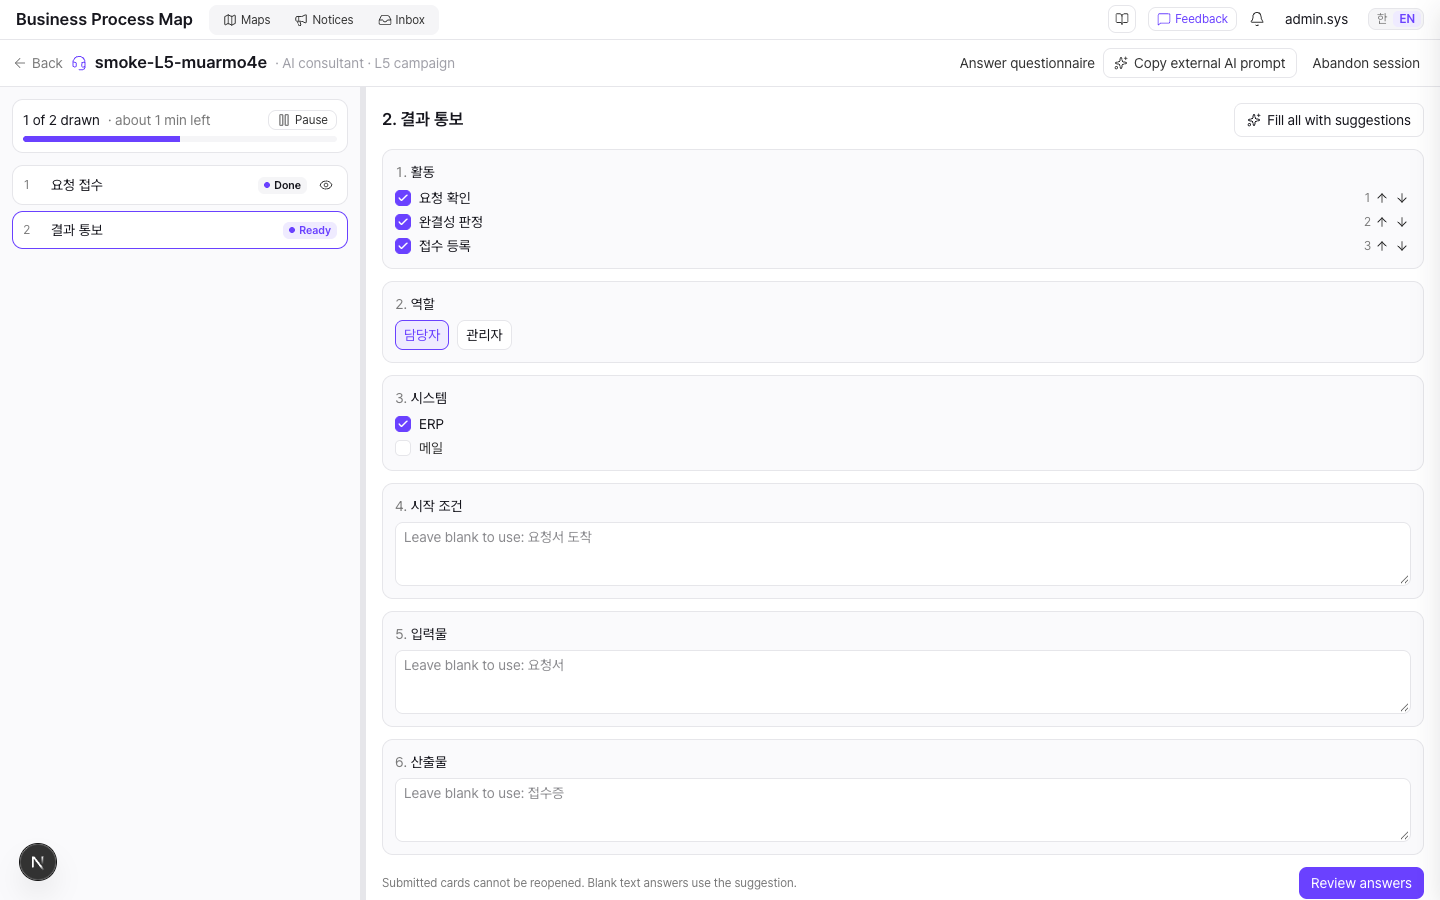
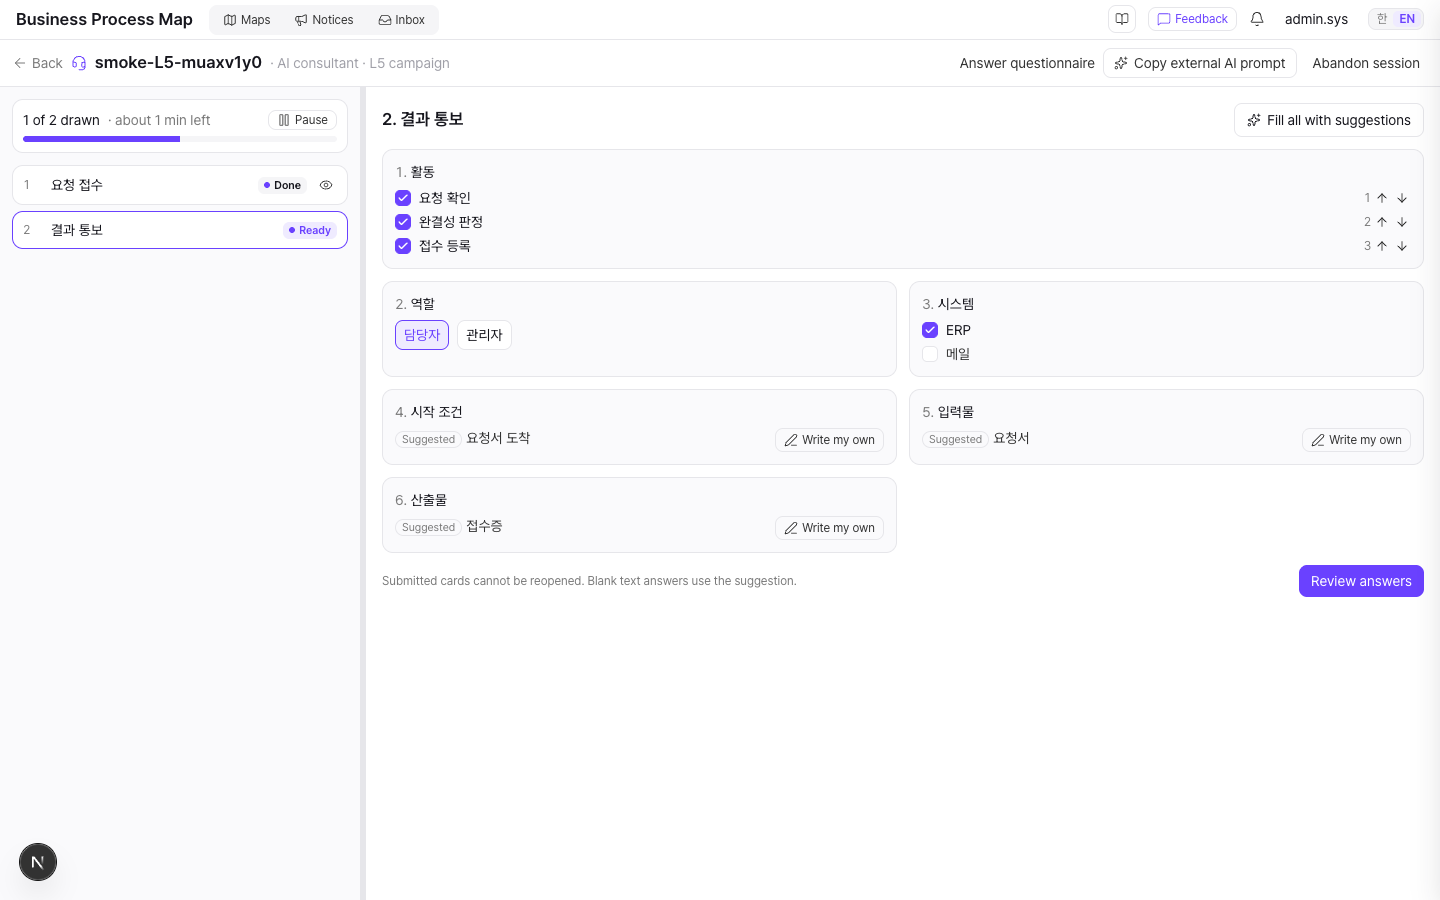
feat(fw-interview): two-column questionnaire, open text answers behind a button — 설문 2열 그리드·주관식은 버튼으로 열어 입력
Why: the single-column form was too wide on desktop, and typing a free
text answer should be opt-in since the suggestion is usually enough.

Claude-Session: https://claude.ai/code/session_01Cp6z7UQxkS4JyPnK2oo8Q2

diff --git a/frontend/src/components/framework-interview/questionnaire-form.tsx b/frontend/src/components/framework-interview/questionnaire-form.tsx
@@ -1,10 +1,10 @@
 "use client";
 
-// 캠페인 ② L6 설문 단계 — 문항 렌더(객관식 위주·제안 선택됨·주관식 플레이스홀더=제안)·제안 일괄 채우기·
+// 캠페인 ② L6 설문 단계 — 문항 렌더(2열 그리드·객관식 위주·제안 선택됨·주관식은 버튼으로 열어 입력)·제안 일괄 채우기·
 // 확인 화면 전환·제출. 제출 후 카드는 잠기고 백그라운드 드로잉으로 넘어간다 (spec 2026-09-21 §2·§4).
 
 import { useEffect, useState } from "react";
-import { ArrowDown, ArrowUp, Loader2, Sparkles } from "lucide-react";
+import { ArrowDown, ArrowUp, Loader2, PenLine, Sparkles } from "lucide-react";
 
 import { getApiErrorDetail, getFrameworkInterviewTask, type FwAnswerValue, type FwInterviewSession, type FwInterviewTask, type FwQuestionnaire } from "@/lib/api";
 import { buildSubmitPayload, fillSuggested, validateAnswers } from "@/lib/framework-interview";
@@ -24,23 +24,60 @@ interface QuestionnaireFormProps {
 
 export function QuestionnaireForm({ questionnaire, answers, missing, onChange }: QuestionnaireFormProps) {
   const { t } = useI18n();
+  // 주관식은 기본이 "제안값 그대로" — 직접 쓰고 싶을 때만 버튼으로 입력창을 연다(입력 안 해도 되는 흐름이 기본, 사용자 결정 2026-09-21).
+  const [openText, setOpenText] = useState<Set<string>>(() => new Set());
   return (
-    <ol className="flex flex-col gap-3" data-id="fw-consult-questions">
+    <ol className="grid grid-cols-1 gap-3 xl:grid-cols-2" data-id="fw-consult-questions">
       {questionnaire.questions.map((q, idx) => {
         const value = answers[q.id];
         const isMissing = missing.includes(q.id);
         const list = Array.isArray(value) ? value : [];
+        const textValue = typeof value === "string" ? value : "";
+        const textOpen = q.kind === "text" && (openText.has(q.id) || textValue !== "");
+        // 활동 순서 문항은 길어서 2열에서도 전폭
+        const span = q.kind === "ordered" ? " xl:col-span-2" : "";
         return (
-          <li key={q.id} data-id={`fw-consult-question-${q.id}`} className={`flex flex-col gap-1.5 rounded-md border p-3 ${isMissing ? "border-error" : "border-hairline"} bg-surface-pearl`}>
+          <li key={q.id} data-id={`fw-consult-question-${q.id}`} className={`flex flex-col gap-1.5 rounded-md border p-3 ${isMissing ? "border-error" : "border-hairline"} bg-surface-pearl${span}`}>
             <p className="text-caption text-ink"><span className="text-ink-tertiary tabular-nums">{idx + 1}. </span>{q.text}</p>
-            {q.kind === "text" && (
-              <textarea
-                data-id={`fw-consult-answer-${q.id}`}
-                className="min-h-16 w-full rounded-sm border border-hairline bg-surface px-2 py-1 text-caption text-ink"
-                value={typeof value === "string" ? value : ""}
-                placeholder={t("fwConsult.textPlaceholder", { suggested: typeof q.suggested === "string" ? q.suggested : "" })}
-                onChange={(e) => onChange(q.id, e.target.value)}
-              />
+            {q.kind === "text" && !textOpen && (
+              <div className="flex items-start gap-2">
+                <p className="min-w-0 flex-1 text-caption text-ink-secondary" data-id={`fw-consult-suggested-${q.id}`}>
+                  <span className="mr-1 rounded-full border border-hairline px-1.5 py-[1px] text-[11px] leading-none text-ink-tertiary">{t("fwConsult.suggestedLabel")}</span>
+                  {typeof q.suggested === "string" ? q.suggested : ""}
+                </p>
+                <button
+                  type="button"
+                  data-id={`fw-consult-write-own-${q.id}`}
+                  className="inline-flex shrink-0 items-center gap-1 rounded-sm border border-hairline px-2 py-1 text-fine text-ink-secondary hover:bg-surface-alt"
+                  onClick={() => setOpenText((prev) => new Set(prev).add(q.id))}
+                >
+                  <PenLine size={14} strokeWidth={1.5} />
+                  {t("fwConsult.writeOwn")}
+                </button>
+              </div>
+            )}
+            {q.kind === "text" && textOpen && (
+              <div className="flex flex-col gap-1.5">
+                <textarea
+                  data-id={`fw-consult-answer-${q.id}`}
+                  autoFocus
+                  className="min-h-16 w-full rounded-sm border border-hairline bg-surface px-2 py-1 text-caption text-ink"
+                  value={textValue}
+                  placeholder={t("fwConsult.textPlaceholder", { suggested: typeof q.suggested === "string" ? q.suggested : "" })}
+                  onChange={(e) => onChange(q.id, e.target.value)}
+                />
+                <button
+                  type="button"
+                  data-id={`fw-consult-use-suggestion-${q.id}`}
+                  className="self-start rounded-sm px-2 py-1 text-fine text-ink-secondary hover:bg-surface-alt"
+                  onClick={() => {
+                    onChange(q.id, "");
+                    setOpenText((prev) => { const next = new Set(prev); next.delete(q.id); return next; });
+                  }}
+                >
+                  {t("fwConsult.useSuggestion")}
+                </button>
+              </div>
             )}
             {q.kind === "single" && (
               <div className="flex flex-wrap gap-2">

diff --git a/frontend/src/lib/i18n-messages.ts b/frontend/src/lib/i18n-messages.ts
@@ -2513,6 +2513,9 @@ const en = {
   "fwConsult.autoApplied": "Suggestion applied",
   "fwConsult.missing": "Answer every choice question before submitting.",
   "fwConsult.textPlaceholder": "Leave blank to use: {suggested}",
+  "fwConsult.suggestedLabel": "Suggested",
+  "fwConsult.writeOwn": "Write my own",
+  "fwConsult.useSuggestion": "Use the suggestion",
   "fwConsult.waitingQuestionnaire": "Preparing the questionnaire for {name}",
   "fwConsult.waitingDrawing": "Drawing the remaining cards",
   "fwConsult.progress": "{done} of {total} drawn",
@@ -5244,6 +5247,9 @@ const ko: Record<MessageKey, string> = {
   "fwConsult.autoApplied": "제안값 적용됨",
   "fwConsult.missing": "제출 전 모든 객관식 문항에 답하세요.",
   "fwConsult.textPlaceholder": "비워두면 사용: {suggested}",
+  "fwConsult.suggestedLabel": "제안",
+  "fwConsult.writeOwn": "직접 입력",
+  "fwConsult.useSuggestion": "제안값 사용",
   "fwConsult.waitingQuestionnaire": "{name}의 설문을 준비하는 중",
   "fwConsult.waitingDrawing": "나머지 카드를 그리는 중",
   "fwConsult.progress": "{total}개 중 {done}개 완료",

diff --git a/PROGRESS.md b/PROGRESS.md
@@ -3,7 +3,9 @@
 프로젝트 진행 로그. 커밋 직전 갱신 (`rules/common/git.md`). **한 줄 요약만** — 상세는 git 이력·`docs/spec.md` 참조.
 최근 요약만 유지하고, 이전 상세 이력은 [`docs/history/PROGRESS-archive.md`](docs/history/PROGRESS-archive.md)(2026-07-20 전체 스냅샷) + git history로 아카이브한다.
 
-## 2026-09-21 — AI 컨설턴트 L5 캠페인 설계 (feat/ai-consultant-l5, 코드 없음)
+## 2026-09-21 — AI 컨설턴트 L5 캠페인 (feat/ai-consultant-l5)
+
+- **설문 UX(사용자 피드백):** 문항을 2열 그리드(xl, 활동 순서 문항은 전폭)로, 주관식은 기본 "제안값 그대로" 표시 + [Write my own] 버튼으로만 입력창을 연다(입력 안 하는 흐름이 기본, [Use the suggestion]으로 되돌림).
 
 - **배경:** AI 컨설턴트는 맵 하나에 묶여 있고(`InterviewSession.map_id`), 여러 맵을 한 번에 만드는 경로는 sysadmin 전용 인터뷰 JSON 임포트뿐. L5 하나 아래 L6 n개를 AI로 만들어 업무 체계에 등록하려면 "여러 맵을 계획·반복·조립하는 위층"이 없다.
 - **결정:** 관리자 탭 진입(임포트 옆) · L6는 채팅 대신 AI 생성 객관식 설문지(전부 답해야 제출, 빈 주관식은 제안값 자동) · 하나씩 제출·되돌리기 없음·제출 즉시 백그라운드 드로잉+다음 설문 prefetch · 등록은 임포트와 동일(게시 직행, 캔버스 draft) · 외부 AI용 0.5 JSON 프롬프트 복사 버튼. 설계: `docs/superpowers/specs/2026-09-21-ai-consultant-l5-campaign-design.md`.
